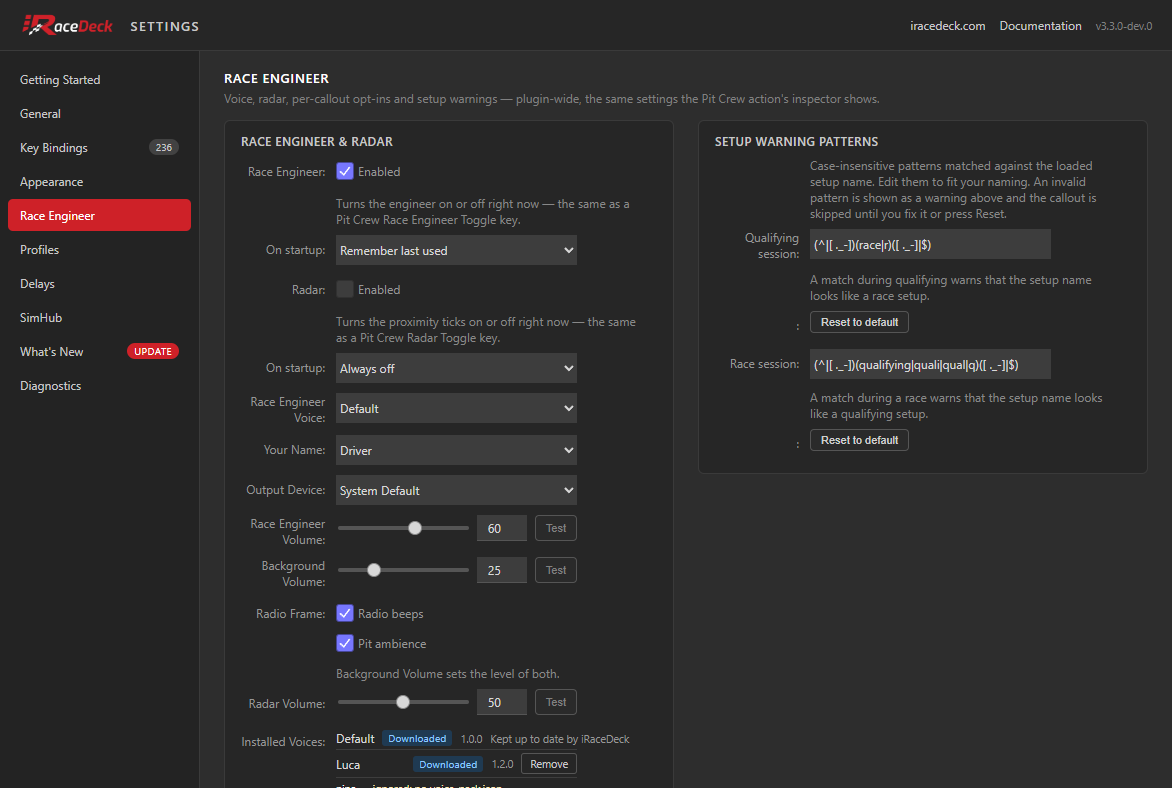
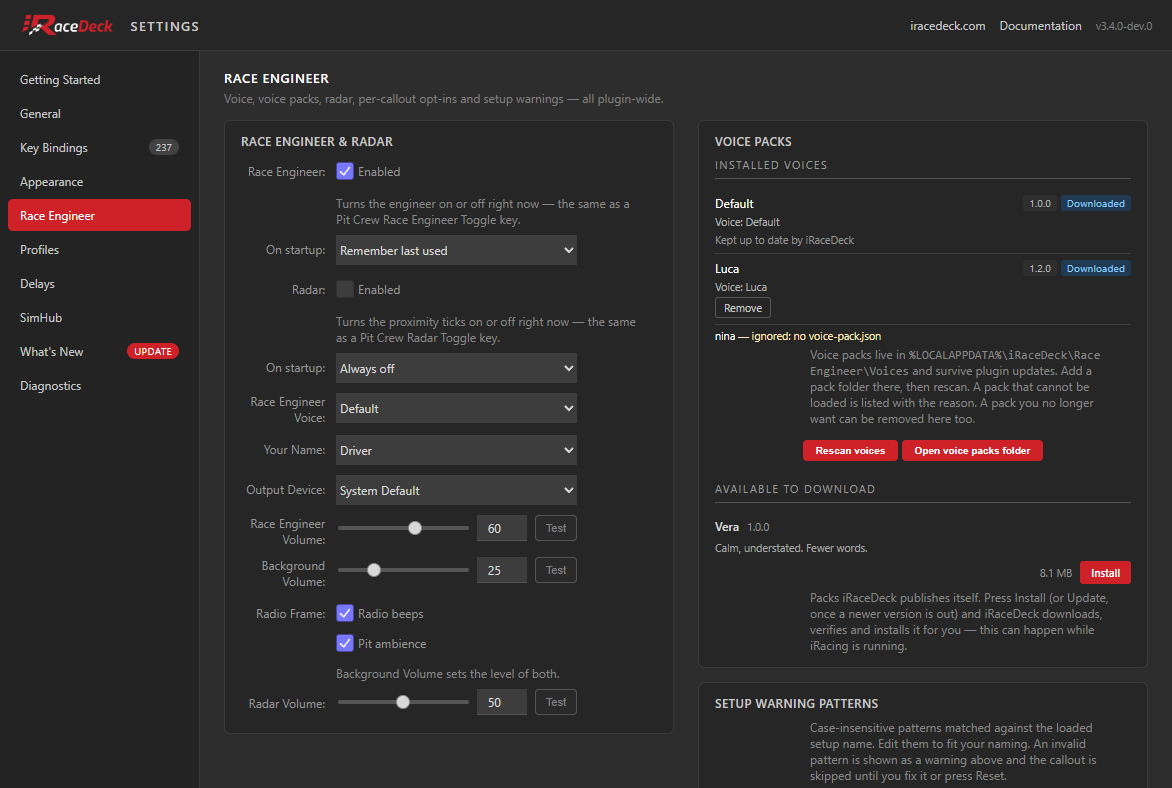
docs(website): document the Voice Packs card and per-pack voices (#1145)
The Settings page and Race Engineer Voices page located the installed
list "just below the dropdown" and the download list under a "Voices"
section; both now live in the Voice Packs card on the Race Engineer tab.
Both pages say each row names the voices its pack provides, which is how
packs sharing a name are told apart. One Improvements bullet in 3.4.0,
and the Race Engineer tab screenshot recaptured.

diff --git a/packages/website/src/content/docs/docs/features/race-engineer-voices.md b/packages/website/src/content/docs/docs/features/race-engineer-voices.md
@@ -23,7 +23,7 @@ Some voices are listed with their pack's name in front, as **Pack: Voice**. That
 
 Two packs may each include a voice of the same name. Both are listed, and each plays its own recordings — installing the second never hides the first, and never changes which one you have selected.
 
-**Installed Voices** just below the dropdown lists every pack iRaceDeck has loaded, with its version and where it came from — **Downloaded** for one from iRaceDeck's own catalog, **Installed by iRaceDeck** for one an earlier version of the plugin placed there, and **Installed by hand** for one you placed in the folder yourself. Anything in the folder that iRaceDeck could not load is listed underneath, with the reason — so a pack that is present but silent tells you why without you going looking for it.
+**Installed Voices**, in the **Voice Packs** card on the Race Engineer tab, lists every pack iRaceDeck has loaded, with its version and where it came from — **Downloaded** for one from iRaceDeck's own catalog, **Installed by iRaceDeck** for one an earlier version of the plugin placed there, and **Installed by hand** for one you placed in the folder yourself. Each row also names the voices the pack provides, so two packs with the same name are told apart by what they put in the dropdown. Anything in the folder that iRaceDeck could not load is listed underneath, with the reason — so a pack that is present but silent tells you why without you going looking for it.
 
 **The Default voice is managed by iRaceDeck.** The plugin no longer ships a voice inside its own folder: at every start it checks iRaceDeck's catalog, downloads **Default** (about 8 MB, from GitHub) if it is missing, and updates it — and any other voice you installed from the catalog — when a newer version is published. If the download fails, it is retried quietly in the background, more often while the Race Engineer is switched on. The row for Default reads *Kept up to date by iRaceDeck* in place of a Remove button. Because iRaceDeck keeps this folder matching the catalog, **anything you change inside it is eventually replaced** — the next published version of Default swaps the whole folder rather than merging into it, and a folder iRaceDeck cannot recognise as its own copy is replaced at the next start. A Default folder whose recordings have gone missing is downloaded again at the next start, too. To customise the Default voice, copy the folder to a new name first and edit the copy; a pack under its own name is never touched.
 
@@ -43,15 +43,15 @@ If you build packs, the script is an ordinary JSON file that references iRaceDec
 
 iRaceDeck publishes its own voice packs and can download and install one for you — no folder to find, no archive to extract.
 
-Open **iRaceDeck Settings**, go to the **Race Engineer** section, and look under **Voices**. Alongside the packs you already have, iRaceDeck lists any pack from its own catalog that you don't, each with an **Install** button — or **Update**, once a newer version of a pack you already have has been published. Press it, and iRaceDeck downloads, verifies, and installs the pack for you.
+Open **iRaceDeck Settings**, go to the **Race Engineer** section, and look in the **Voice Packs** card. Under **Available to Download**, below the packs you already have, iRaceDeck lists any pack from its own catalog that you don't, each with an **Install** button — or **Update**, once a newer version of a pack you already have has been published. Press it, and iRaceDeck downloads, verifies, and installs the pack for you.
 
-The download can happen **while iRacing is running**, including mid-race — iRaceDeck never opens a window to ask about it or report on it. Progress appears in the Voices section of the Settings window, if you happen to have it open. If you do not, the download is silent by design: the pack is simply there next time you look, and the Race Engineer keeps using whatever voice you already had until the new one is ready. Nothing interrupts a session to tell you about it.
+The download can happen **while iRacing is running**, including mid-race — iRaceDeck never opens a window to ask about it or report on it. Progress appears in the Voice Packs card of the Settings window, if you happen to have it open. If you do not, the download is silent by design: the pack is simply there next time you look, and the Race Engineer keeps using whatever voice you already had until the new one is ready. Nothing interrupts a session to tell you about it.
 
 If iRaceDeck can't reach the catalog — no connection, or a bad one — nothing already installed is affected. Every voice you have keeps working exactly as before; iRaceDeck just has nothing new to offer until it can check again.
 
-A downloaded pack is verified against a checksum before it replaces anything, so a corrupted or incomplete download is discarded rather than installed. A pack you no longer want can be removed from the same Voices section — every pack except Default, which iRaceDeck keeps current.
+A downloaded pack is verified against a checksum before it replaces anything, so a corrupted or incomplete download is discarded rather than installed. A pack you no longer want can be removed from the same Voice Packs card — every pack except Default, which iRaceDeck keeps current.
 
-The list of packs available to download shows only what you do not already have. Once a pack is installed it moves to **Installed Voices** and leaves that list, so a pack never appears twice. When you have every voice iRaceDeck publishes, the section says so rather than sitting empty.
+The **Available to Download** list shows only what you do not already have. Once a pack is installed it moves to **Installed Voices** and leaves that list, so a pack never appears twice. When you have every voice iRaceDeck publishes, the section says so rather than sitting empty.
 
 ## Installing a Voice Pack by Hand
 

diff --git a/packages/website/src/content/docs/docs/getting-started/settings.md b/packages/website/src/content/docs/docs/getting-started/settings.md
@@ -68,15 +68,15 @@ The look every key inherits. Anything set here is a **default**: a key that has 
 
 ### Race Engineer
 
-![The Race Engineer tab, showing the live toggles, startup policies, voice, the Radio Frame beeps and ambience switches, and callout opt-ins](../../../../assets/settings-window/race-engineer.png)
+![The Race Engineer tab, showing the live toggles, startup policies, voice, the Radio Frame beeps and ambience switches, the voice packs you have installed and the ones available to download, and callout opt-ins](../../../../assets/settings-window/race-engineer.png)
 
-Everything about the Race Engineer and the radar: the live on/off toggles and their startup policies, the voice, your name, the output device and the three volumes with **Test** buttons beside them, the two halves of the radio frame, the setup-warning patterns, and the per-callout opt-ins.
+Everything about the Race Engineer and the radar: the live on/off toggles and their startup policies, the voice, your name, the output device and the three volumes with **Test** buttons beside them, the two halves of the radio frame, the voice packs you have installed and the ones available to download, the setup-warning patterns, and the per-callout opt-ins.
 
 **Race Engineer Voice** and **Your Name** choose who talks to you and what they call you. **Output Device** sends the engineer to a specific device — useful if you want him in your headset while the sim runs on speakers. The three volumes are independent: **Race Engineer** is the voice, **Background** the radio beeps and the pit ambience around it, **Radar** the proximity ticks.
 
 **Radio Frame** is the pair of checkboxes under the Background slider. Every spoken line is framed by the voice's own radio frame — the one its callout script defines. In **Default**, iRaceDeck's own voice, that is a short beep as the channel opens, the pit-lane atmosphere running underneath while the engineer talks, and a beep as it closes; a voice pack may frame its calls its own way. A voice with no callout script says nothing at all, so there is no frame to hear either. **Radio beeps** and **Pit ambience** switch those two halves separately — turn one off and only that half goes; the words are untouched, and the other half keeps playing. Both are on by default, and **Background** still sets the level of whichever is on. The frame only ever wraps speech: a callout that has nothing to say in the voice you are using gets no beeps either, so you never hear a pair of clicks around silence. Callouts that already play without the frame — the terse pit-box nudges, the spotter, the corner names — are unaffected by either switch.
 
-**Installed Voices** lists the voice packs iRaceDeck has loaded, with anything it could not load underneath and the reason why — so a pack you dropped into the folder that is not showing up in the dropdown tells you what is wrong with it. **Rescan voices** below it picks up a pack you have just added, without restarting anything. See [Race Engineer Voices](/docs/features/race-engineer-voices/) for where packs live, how to install one, and what a pack's callout script decides.
+**Installed Voices** lives in the **Voice Packs** card beside the Race Engineer card, above **Available to Download**. It lists the voice packs iRaceDeck has loaded, each with its version, where it came from, and the voice or voices it provides — so two packs with the same name are told apart by their voices, which are the names the **Race Engineer Voice** dropdown shows after the pack's name. Anything it could not load is listed underneath with the reason why — so a pack you dropped into the folder that is not showing up in the dropdown tells you what is wrong with it. **Rescan voices** below it picks up a pack you have just added, without restarting anything. See [Race Engineer Voices](/docs/features/race-engineer-voices/) for where packs live, how to install one, and what a pack's callout script decides.
 
 A voice that is listed but has no callout script — a pack built before scripts existed, or one whose script is missing — is still selectable, but every callout is skipped in it — every callout comes from the script — so the engineer goes quiet. While such a voice is the one selected, a banner at the top of this window and of every key's Property Inspector names it, so a quiet engineer is never a mystery: reinstall the pack, or pick another voice. The banner is re-checked after every rescan and every change of voice, and disappears by itself once the selected voice has a script.
 
